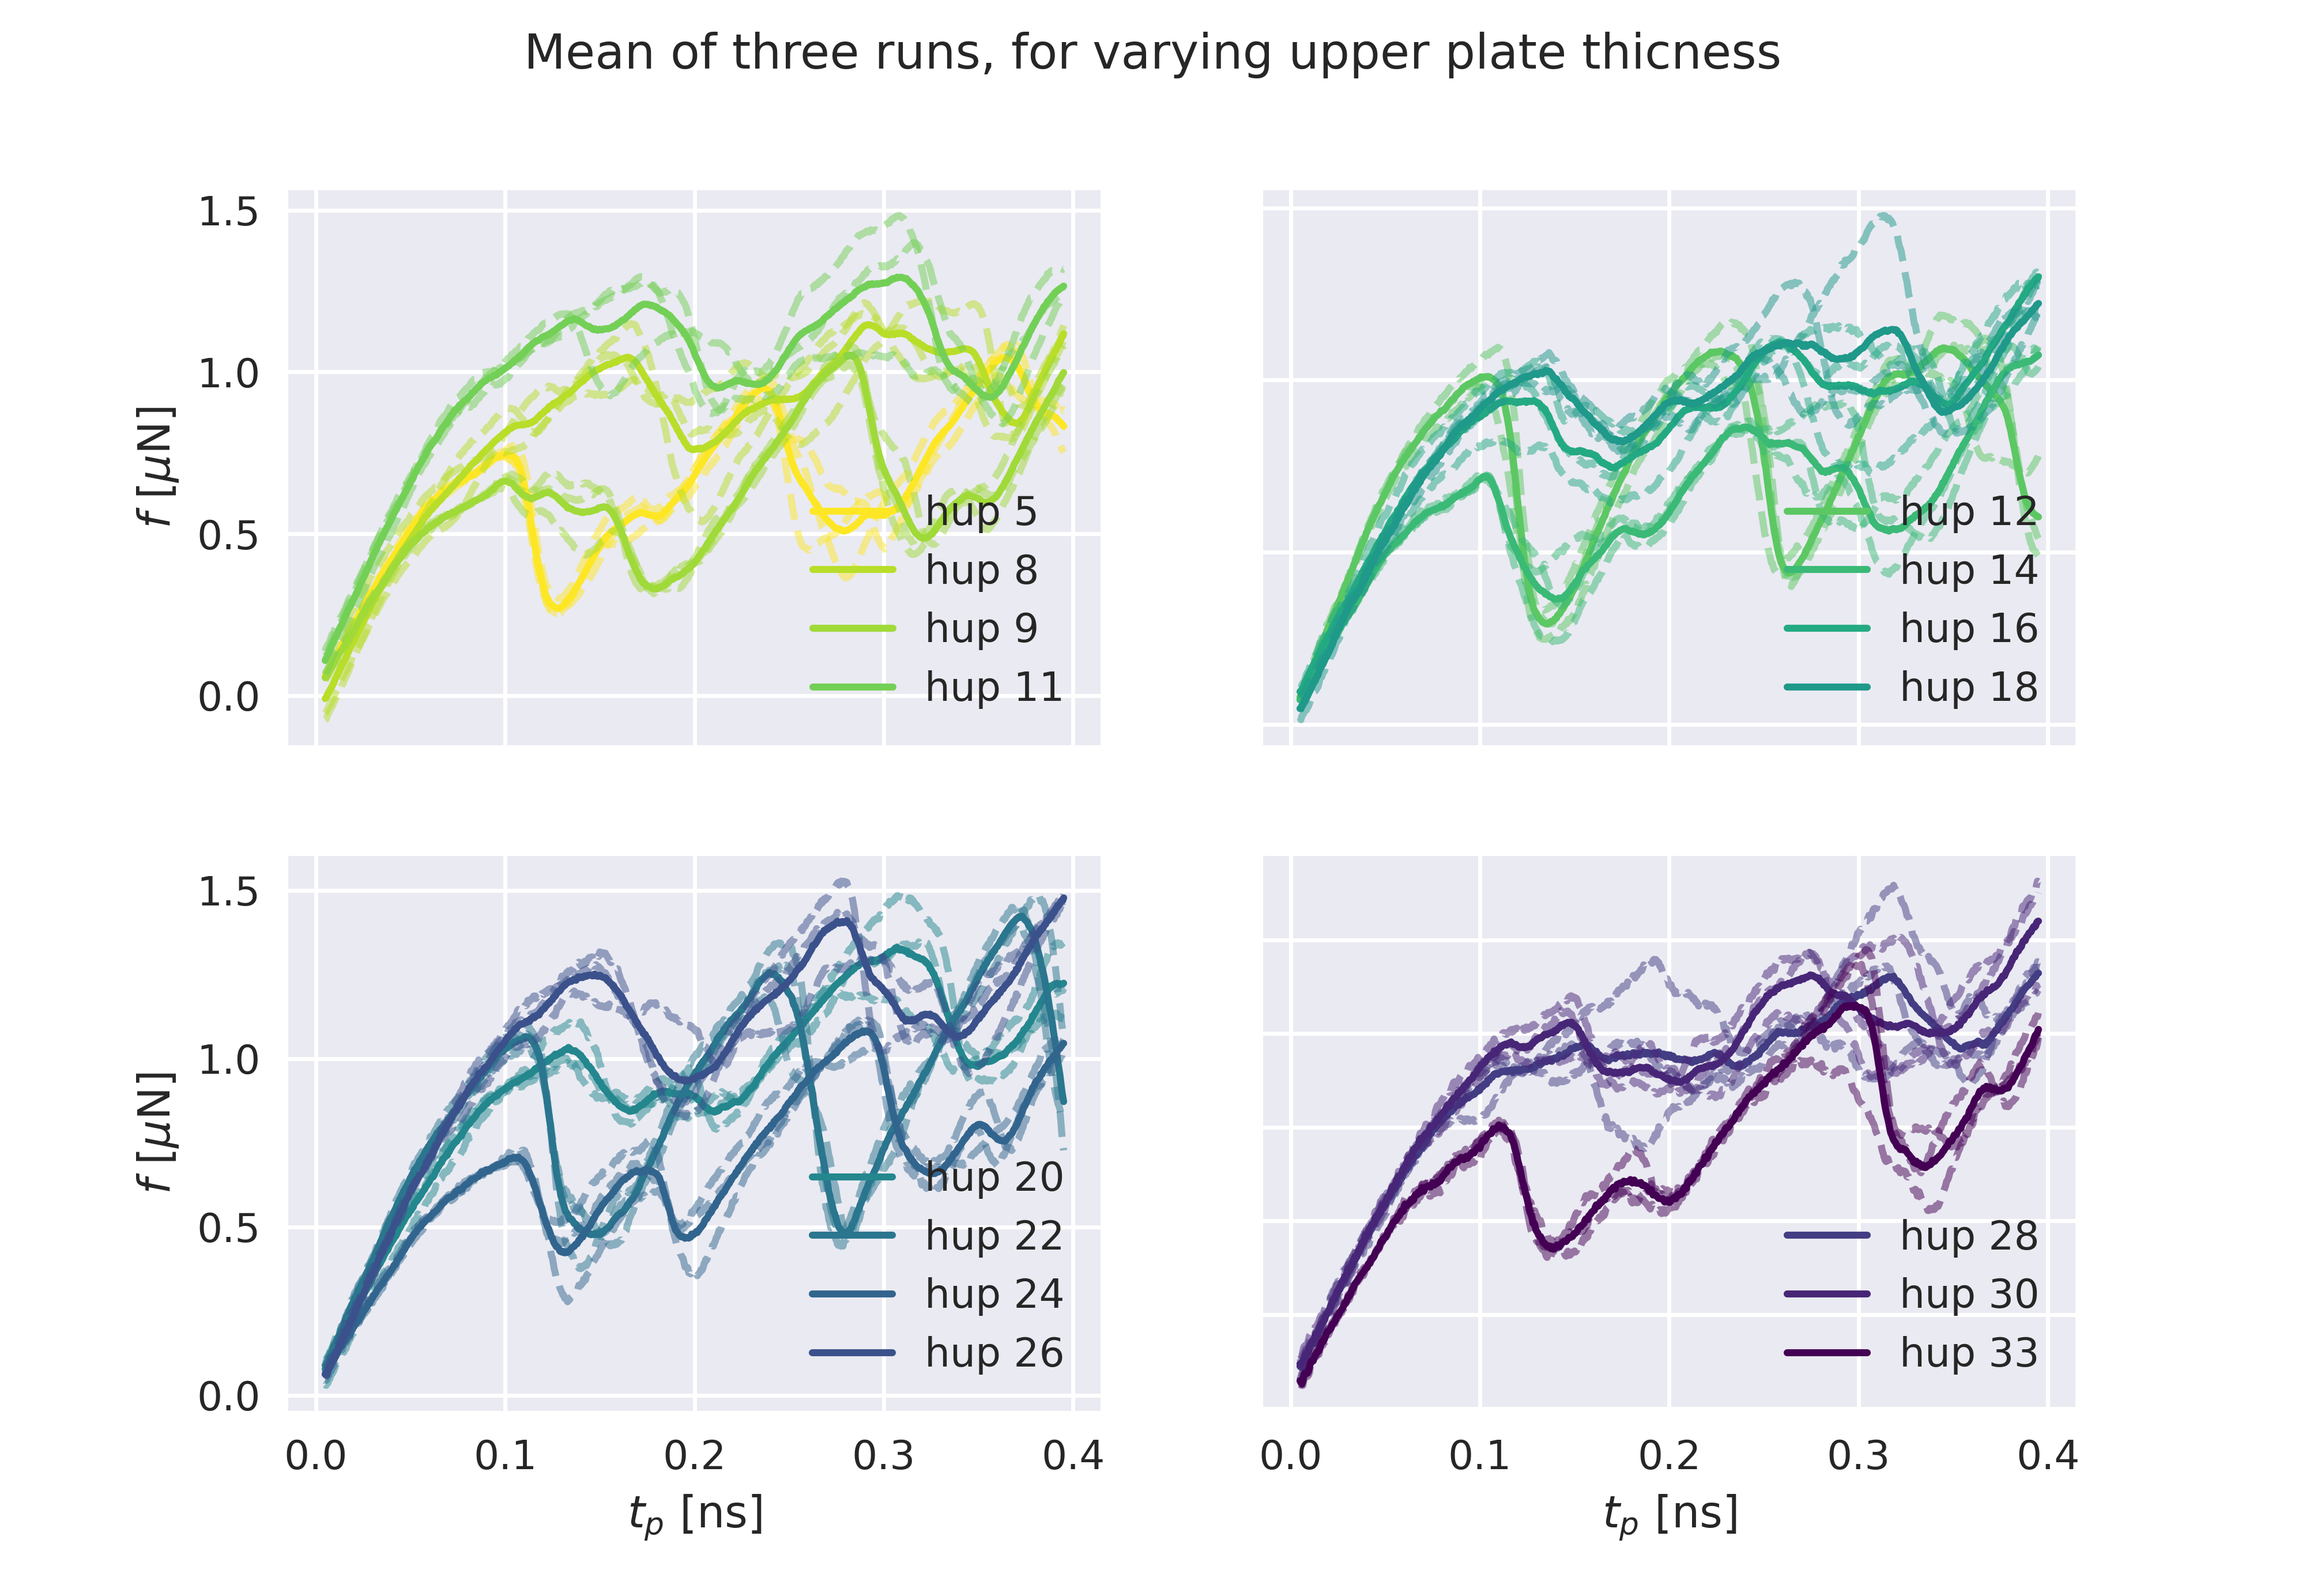
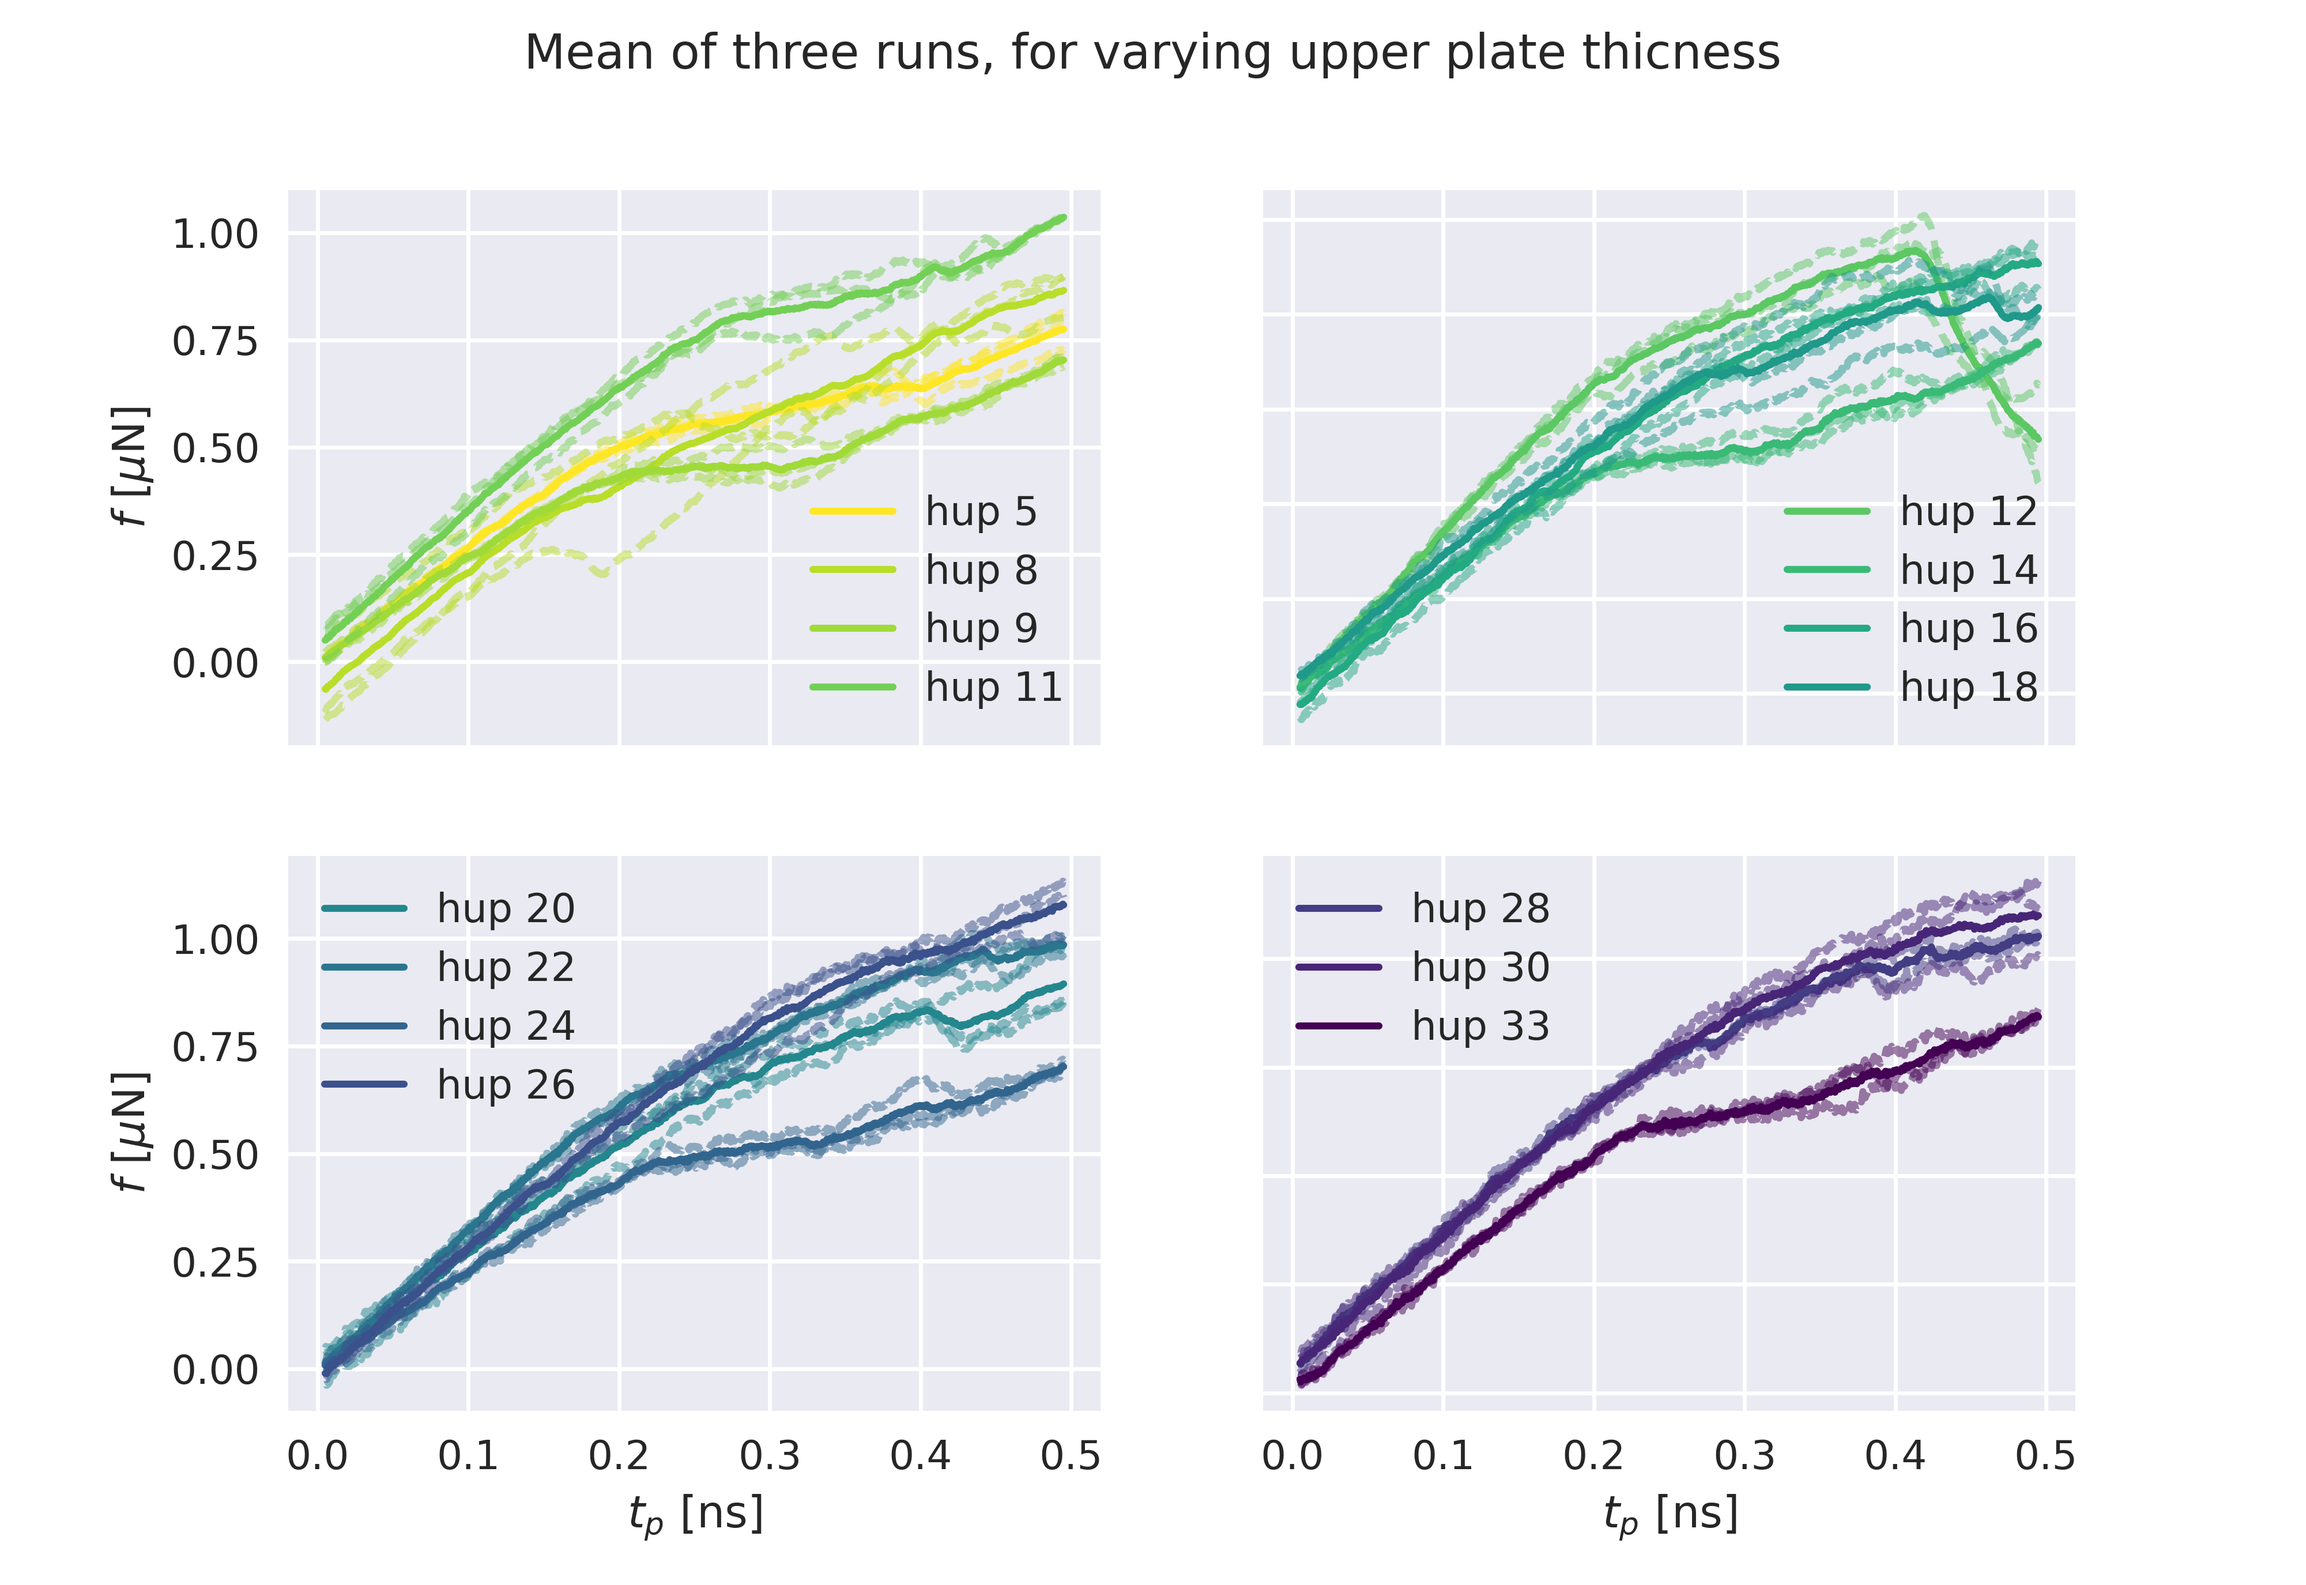
finally made right figure after third run

diff --git a/python/plot/plot_load_curves.py b/python/plot/plot_load_curves.py
@@ -33,13 +33,14 @@ def load_load_curves(temp, vel, force, orientation, grid, template_lc, template_
                 print('found loadcurve ',file)
                 load_curves_all.append(load_curves)
                 print(len(load_curves))
+    print('load curves shape: ', np.shape(load_curves_all))
     load_curves_all[1] = load_curves_all[1][:len(load_curves_all[0])]
     load_curves_all = np.array(load_curves_all)
     shortest = np.argmin(load_curves_all) 
 
     load_curves = mean(load_curves_all, axis=0)
 
-    load_curves = load_curves.reshape(-1, 801, 2)   # assuming that all curves have 1001 points
+    load_curves = load_curves.reshape(-1, 1001, 2)   # assuming that all curves have 1001 points
     
     return load_curves_all, load_curves
 
@@ -84,8 +85,8 @@ def plot_load_curves_as_funciton_of_top_thiccness():
     seeds_33 = [64798,34149] #thicc 109
 
     """
-
-    # second push run vel 1.25
+    """
+    # second push run vel 5
     seeds_5 = [71361,91111,63445] # 80
     seeds_8 = [12890,62608,29899] # 83
     seeds_9 = [70529,45585,64900]
@@ -101,7 +102,23 @@ def plot_load_curves_as_funciton_of_top_thiccness():
     seeds_28 = [71970,74062,60542] # 103
     seeds_30 = [81636,35286,69718] # 105
     seeds_33 = [90953,90762,47980] # 109
-    
+    """
+        #third push run
+    seeds_5 = [76532,67473,86988]
+    seeds_8 = [22135,54054,39337]
+    seeds_9 = [15007,95692,61395]
+    seeds_11 = [31234,92172,49033]
+    seeds_12 = [27448,57576,83094] 
+    seeds_14 = [68672,65867,65400]
+    seeds_16 = [57652,77804,75056]
+    seeds_18 = [37474,72730,76985] 
+    seeds_20 = [16010,24858,24113]
+    seeds_22 = [19590,75450,95072] 
+    seeds_24 = [63988,78860,45476] 
+    seeds_26 = [35593,21768,33674]
+    seeds_28 = [81910,33465] #46388 missing
+    seeds_30 = [23317,44679,86430]
+    seeds_33 = [66411,52069,63812]
     
     _seeds1 = [seeds_5, seeds_8, seeds_9, seeds_11]
     _seeds2 = [seeds_12, seeds_14, seeds_16, seeds_18]

diff --git a/python/post/get_load_curves.py b/python/post/get_load_curves.py
@@ -54,7 +54,7 @@ def get_load_curves():
     
 
     # collect log files
-    times = [400]
+    times = [500]
 
     #seeds = [12589, 50887]  
     #seeds = [88753,12754,91693] #thicc height 80
@@ -79,7 +79,19 @@ def get_load_curves():
     #seeds = [47606,72506,44762, 47009,37801,56714, 54238,10257,73002] # 100
     #seeds = [71970,74062,60542] # 103
     #seeds = [81636,35286,69718] # 105
-    seeds = [90953,90762,47980] # 109
+    #seeds = [90953,90762,47980] # 109
+
+    #third push run
+    #seeds = [76532,67473,86988]
+    #seeds = [22135,54054,39337]
+    #seeds = [15007,95692,61395, 31234,92172,49033]
+    #seeds = [27448,57576,83094, 68672,65867,65400]
+    #seeds = [57652,77804,75056]
+    #seeds = [37474,72730,76985, 16010,24858,24113]
+    #seeds = [19590,75450,95072, 63988,78860,45476, 35593,21768,33674]
+    #seeds = [81910,46388,33465]
+    #seeds = [23317,44679,86430]
+    seeds = [66411,52069,63812]
 
     for seed in seeds:
         logfiles = []
